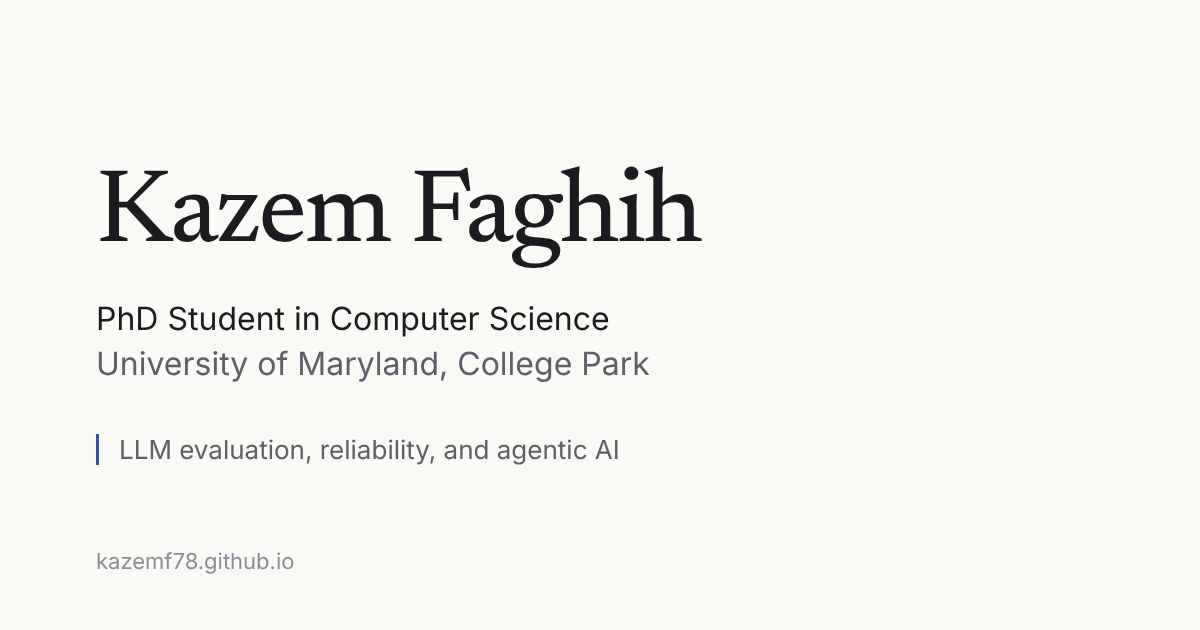
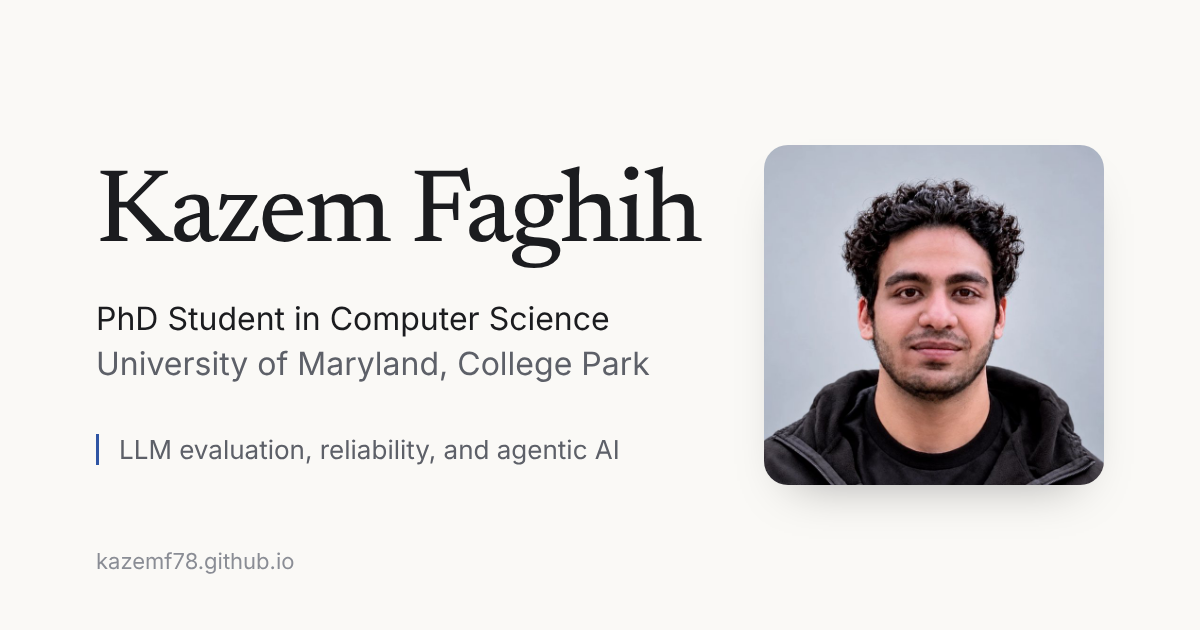
Add profile photo to intro and social preview image
Claude-Session: https://claude.ai/code/session_01PFUEKBZBetpzcDF7TGFFdZ

Changed region(s): [[0.6167, 0.2111, 0.925, 0.8143]]

diff --git a/src/data/profile.ts b/src/data/profile.ts
@@ -13,8 +13,7 @@ export const profile = {
     'Kazem Faghih is a Computer Science PhD student at the University of Maryland, College Park, working on LLM evaluation, reliability, and agentic AI.',
 
   // Path under /public. Leave empty ('') to show the monogram placeholder.
-  // TODO: add a professional photo at public/images/profile.jpg (square, ≥ 600×600).
-  photo: '',
+  photo: '/images/profile.jpg',
 
   // Path under /public (e.g. '/cv.pdf') or a full URL. While empty, the CV button
   // shows as a "coming soon" placeholder.
